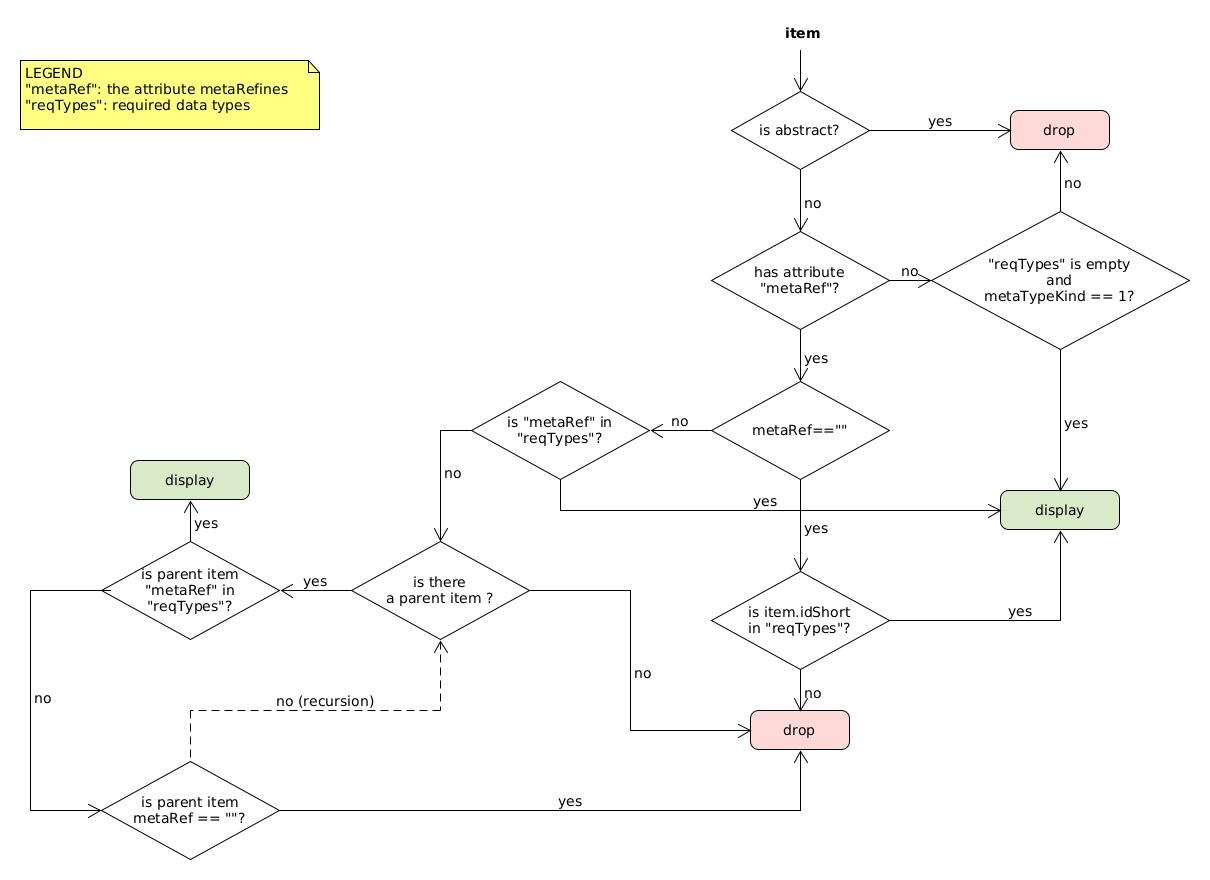
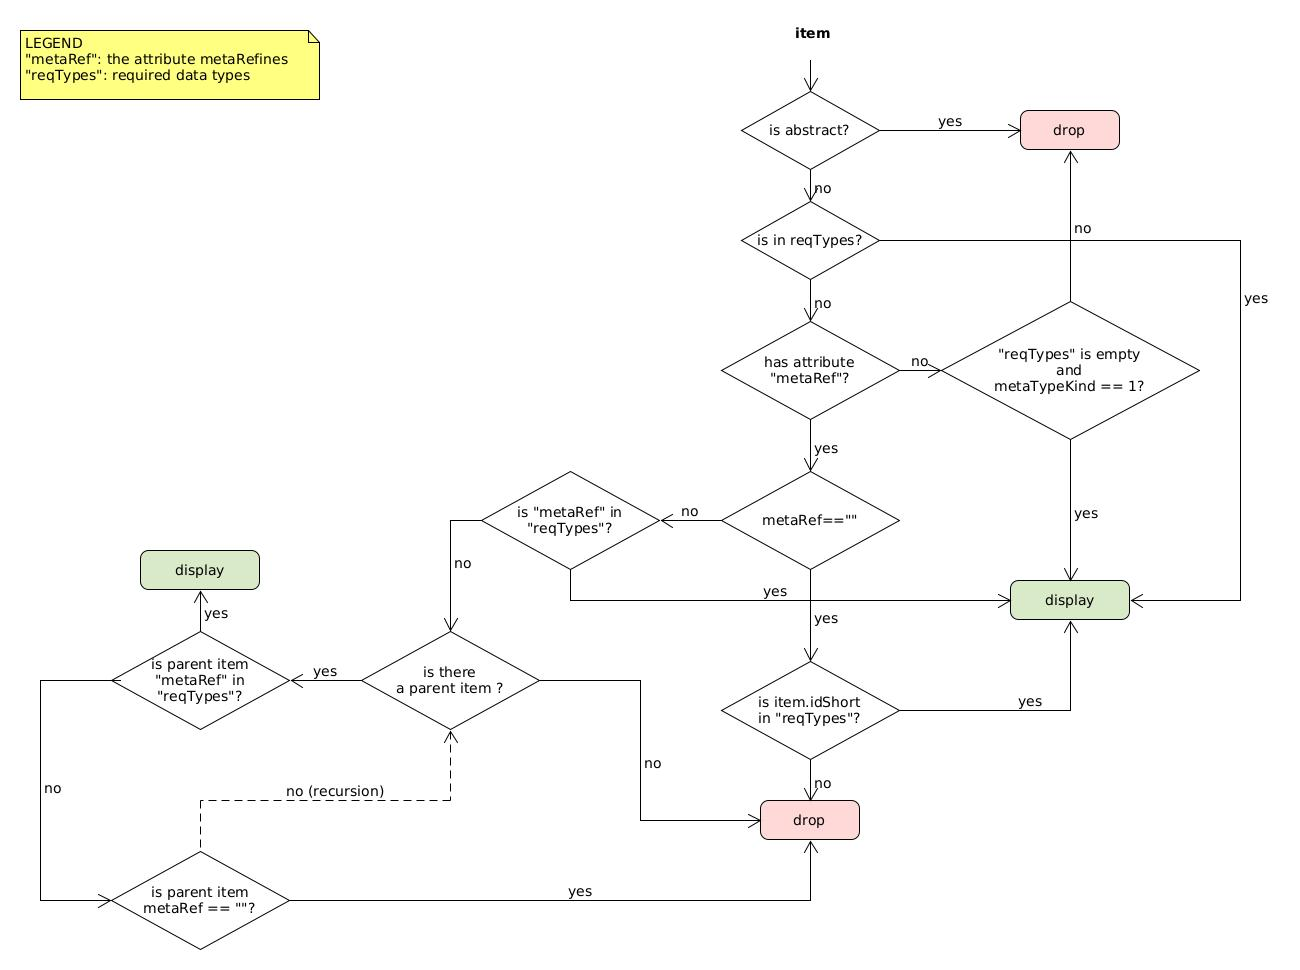
adjustements for editors

diff --git a/platform/managementUI/src/app/components/editor/editor.component.ts b/platform/managementUI/src/app/components/editor/editor.component.ts
@@ -39,13 +39,13 @@ export class EditorComponent implements OnInit {
   */
   reqTypes = [
     {cat: "Constants", metaRef: []},
-    {cat: "Types", metaRef: ["DataType"]},
+    {cat: "Types", metaRef: ["RecordType", "ArrayType"]},
     {cat: "Dependencies", metaRef: ["Dependency"]},
     {cat: "Nameplates", metaRef: ["NameplateInfo"]},
     {cat: "Services", metaRef: ["Service"]},
     {cat: "Servers", metaRef: ["Server"]},
     {cat: "Meshes", metaRef: ["ServiceMesh"]},
-    {cat: "Applications", metaRef: ["VersionedElement"]}
+    {cat: "Applications", metaRef: ["Application"]}
   ];
 
   constructor(private api: ApiService,
@@ -94,7 +94,13 @@ export class EditorComponent implements OnInit {
         if(item.idShort) {
           idShort = item.idShort
         }
+
         if(!this.isAbstract(item)) {
+
+          if(filter?.metaRef.includes(idShort)) {
+            newMetaValues.push(item)
+          }
+
           if (this.getMetaRef(item)) {
             let metaRefVal = item.value.find((val: { idShort: string; }) => val.idShort === "metaRefines").value
 

diff --git a/platform/managementUI/src/app/components/deployment-plans/deployment-plans.component.ts b/platform/managementUI/src/app/components/deployment-plans/deployment-plans.component.ts
@@ -31,7 +31,6 @@ export class DeploymentPlansComponent implements OnInit {
 
   async ngOnInit() {
     await this.getArtifacts();
-    console.log("hier ich bin in deplyoment plans")
   }
 
   public async getArtifacts() {
@@ -47,8 +46,6 @@ export class DeploymentPlansComponent implements OnInit {
 
       this.instanceId.fill("", 0, this.deploymentPlans?.value?.length);
     }
-    console.log("deployment plans:")
-    console.log(this.deploymentPlans)
   }
 
   public isArray(value: any) {
